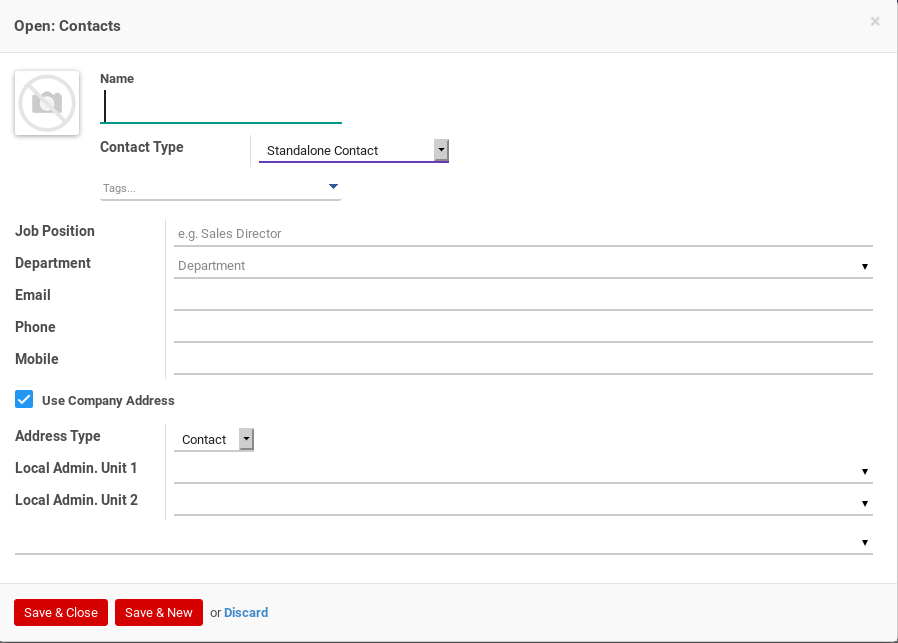
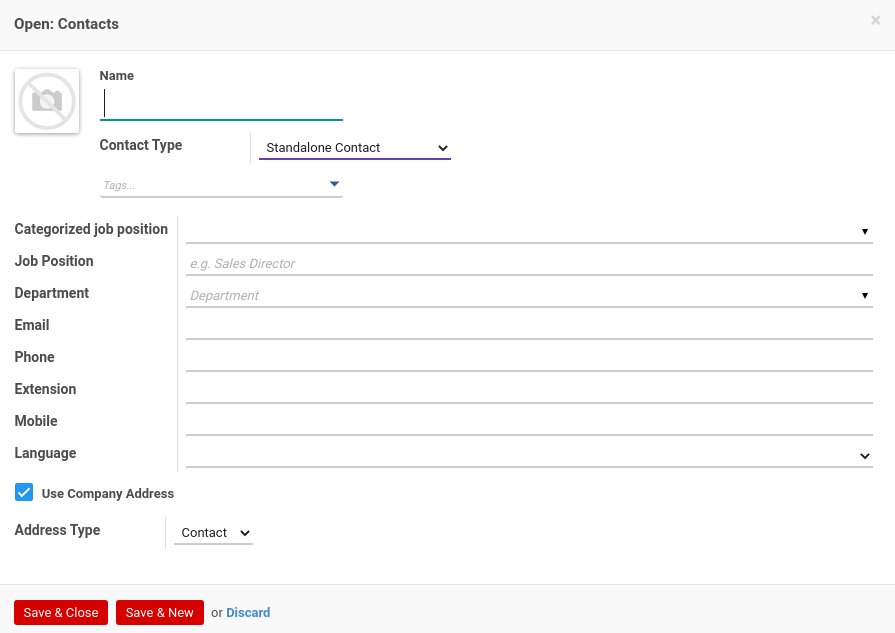
Company Partner Task Menambahkan Contact Task Memodifikasi Contact Task Menghapus Contact Task Menambahkan Afiliasi Task Memodifikasi Afiliasi Task Menghapus Afiliasi

diff --git a/src/company-partner/menambah-affiliates.md b/src/company-partner/menambah-affiliates.md
@@ -1,0 +1,44 @@
+# Menambahkan Afiliasi
+
+*(Instruksi kerja ini merupakan sub instruksi dari (1) [Membuat Company Partner](./membuat.md), atau (2) [Memodifikasi Company Partner](./memodifikasi.md). Instruksi kerja ini tidak bisa berdiri sendiri)*
+
+## A. INPUT
+
+*(Tidak ada instruksi khusus)*
+
+## B. LANGKAH KERJA
+
+1. Klik tombol **Create** pada bagian atas-kiri tab ***Affiliates***
+
+![](../img/company-partner/tombol-create-affiliate.png)
+
+Pop-up ***Affiliates*** akan muncul.
+
+![](../img/company-partner/pop-up-affiliate.png)
+
+2. Isi **[Name](./penjelasan.md#field-affiliates-name)**. Harus diisi.
+3. Pilih **[Company](./penjelasan.md#field-affiliates-company)**. Tidak harus diisi.
+4. Pilih **[Tags](./penjelasan.md#field-affiliates-tags)**. Tidak harus diisi.
+5. Isi **[Address](./penjelasan.md#field-affiliates-address)**. Tidak harus diisi.
+6. Isi **[Website](./penjelasan.md#field-affiliates-website)**. Tidak harus diisi.
+7. Pilih **[Main Sector](./penjelasan.md#field-affiliates-sector)**. Tidak harus diisi.
+8. Isi **[Secondary Sector](./penjelasan.md#field-affiliates-sector2)**. Tidak harus diisi.
+9. Isi **[Phone](./penjelasan.md#field-affiliates-phone)**. Tidak harus diisi.
+10. Isi **[Extension](./penjelasan.md#field-affiliates-ext)**. Tidak harus diisi.
+11. Isi **[Mobile](./penjelasan.md#field-affiliates-mobile)**. Tidak harus diisi.
+12. Isi **[Fax](./penjelasan.md#field-affiliates-fax)**. Tidak harus diisi.
+13. Isi **[Email](./penjelasan.md#field-affiliates-email)**. Tidak harus diisi.
+14. Pilih **[Title](./penjelasan.md#field-affiliates-title)**. Tidak harus diisi.
+15. Pilih **[Ownership Type](./penjelasan.md#field-affiliates-ownership-type)**. Tidak harus diisi.
+16. Klik tombol **Save & Close** pada bagian bawah-kiri pop-up **Affiliates** untuk menyimpan data. Klik tombol **Save & New** pada bagian bawah-kiri pop-up **Affiliates** untuk menyimpan data dan menambahkan data baru.
+
+![](../img/company-partner/tombol-save-close-affiliate.png)
+
+![](../img/company-partner/tombol-save-new-affiliate.png)
+
+17. Ulangi langkah ke-2 jika pada langkah ke-16 tombol **Save & New** yang dipilih.
+18. Lanjutkan [langkah ke-18 instruksi kerja Membuat Company Partner](./membuat.md#l18) atau [langkah ke-19 instruksi kerja Memodifikasi Company Partner](./memodifikasi.md#l19).
+
+## C. OUTPUT
+
+*(Tidak ada instruksi khusus)*

diff --git a/src/company-partner/memodifikasi-affiliates.md b/src/company-partner/memodifikasi-affiliates.md
@@ -1,0 +1,34 @@
+# Memodifikasi Afiliasi
+
+*(Instruksi kerja ini merupakan sub instruksi dari (1) [Membuat Company Partner](./membuat.md), atau (2) [Memodifikasi Company Partner](./memodifikasi.md). Instruksi kerja ini tidak bisa berdiri sendiri)*
+
+## A. INPUT
+
+*(Tidak ada instruksi khusus)*
+
+## B. LANGKAH KERJA
+
+1. Buka data **Affiliates** yang akan dimodifikasi.
+2. Isi dan sesuaikan **[Name](./penjelasan.md#field-affiliates-name)** jika dibutuhkan. Harus diisi.
+3. Pilih dan sesuaikan **[Company](./penjelasan.md#field-affiliates-company)** jika dibutuhkan. Tidak harus diisi.
+4. Pilih dan sesuaikan **[Tags](./penjelasan.md#field-affiliates-tags)** jika dibutuhkan. Tidak harus diisi.
+5. Isi dan sesuaikan **[Address](./penjelasan.md#field-affiliates-address)** jika dibutuhkan. Tidak harus diisi.
+6. Isi dan sesuaikan **[Website](./penjelasan.md#field-affiliates-website)** jika dibutuhkan. Tidak harus diisi.
+7. Pilih dan sesuaikan **[Main Sector](./penjelasan.md#field-affiliates-sector)** jika dibutuhkan. Tidak harus diisi.
+8. Isi dan sesuaikan **[Secondary Sector](./penjelasan.md#field-affiliates-sector2)** jika dibutuhkan. Tidak harus diisi.
+9. Isi dan sesuaikan **[Phone](./penjelasan.md#field-affiliates-phone)** jika dibutuhkan. Tidak harus diisi.
+10. Isi dan sesuaikan **[Extension](./penjelasan.md#field-affiliates-ext)** jika dibutuhkan. Tidak harus diisi.
+11. Isi dan sesuaikan **[Mobile](./penjelasan.md#field-affiliates-mobile)** jika dibutuhkan. Tidak harus diisi.
+12. Isi dan sesuaikan **[Fax](./penjelasan.md#field-affiliates-fax)** jika dibutuhkan. Tidak harus diisi.
+13. Isi dan sesuaikan **[Email](./penjelasan.md#field-affiliates-email)** jika dibutuhkan. Tidak harus diisi.
+14. Pilih dan sesuaikan **[Title](./penjelasan.md#field-affiliates-title)** jika dibutuhkan. Tidak harus diisi.
+15. Pilih dan sesuaikan **[Ownership Type](./penjelasan.md#field-affiliates-ownership-type)** jika dibutuhkan. Tidak harus diisi.
+16. Klik tombol **Save** pada bagian bawah-kiri form.
+
+![](../img/company-partner/tombol-save-modifikasi-affiliate.png)
+
+17. Lanjutkan [langkah ke-18 instruksi kerja Membuat Company Partner](./membuat.md#l18) atau [langkah ke-19 instruksi kerja Memodifikasi Company Partner](./memodifikasi.md#l19).
+
+## C. OUTPUT
+
+*(Tidak ada instruksi khusus)*

diff --git a/src/company-partner/menambah-contact.md b/src/company-partner/menambah-contact.md
@@ -1,0 +1,42 @@
+# Menambahkan Contact
+
+*(Instruksi kerja ini merupakan sub instruksi dari (1) [Membuat Company Partner](./membuat.md), atau (2) [Memodifikasi Company Partner](./memodifikasi.md). Instruksi kerja ini tidak bisa berdiri sendiri)*
+
+## A. INPUT
+
+*(Tidak ada instruksi khusus)*
+
+## B. LANGKAH KERJA
+
+1. Klik tombol **Create** pada bagian atas-kiri tab ***Contacts***
+
+![](../img/company-partner/tombol-create-contact.png)
+
+Pop-up ***Contacts*** akan muncul.
+
+![](../img/company-partner/pop-up-contact.png)
+
+2. Isi **[Name](./penjelasan.md#field-contact-name)**. Harus diisi.
+3. Pilih **[Contact Type](./penjelasan.md#field-contact-type)**. Harus diisi.
+4. Pilih **[Tags](./penjelasan.md#field-contact-tags)**. Tidak harus diisi.
+5. Pilih **[Categorized Job Position](./penjelasan.md#field-contact-job-category)**. Tidak harus diisi.
+6. Isi **[Job Position](./penjelasan.md#field-contact-job-position)**. Tidak harus diisi.
+7. Pilih **[Department](./penjelasan.md#field-contact-job-department)**. Tidak harus diisi.
+8. Isi **[Email](./penjelasan.md#field-contact-job-email)**. Tidak harus diisi.
+9. Isi **[Phone](./penjelasan.md#field-contact-job-phone)**. Tidak harus diisi.
+10. Isi **[Extension](./penjelasan.md#field-contact-job-phone-extension)**. Tidak harus diisi.
+11. Isi **[Mobile](./penjelasan.md#field-contact-job-mobile)**. Tidak harus diisi.
+12. Pilih **[Language](./penjelasan.md#field-contact-job-language)**. Tidak harus diisi.
+13. Pilih **[Address Type](./penjelasan.md#field-contact-job-address-type)**. Tidak harus diisi.
+14. Klik tombol **Save & Close** pada bagian bawah-kiri pop-up **Contacts** untuk menyimpan data. Klik tombol **Save & New** pada bagian bawah-kiri pop-up **Contacts** untuk menyimpan data dan menambahkan data baru.
+
+![](../img/company-partner/tombol-save-close-contact.png)
+
+![](../img/company-partner/tombol-save-new-contact.png)
+
+15. Ulangi langkah ke-2 jika pada langkah ke-14 tombol **Save & New** yang dipilih.
+16. Lanjutkan [langkah ke-17 instruksi kerja Membuat Company Partner](./membuat.md#l17) atau [langkah ke-18 instruksi kerja Memodifikasi Company Partner](./memodifikasi.md#l18).
+
+## C. OUTPUT
+
+*(Tidak ada instruksi khusus)*

diff --git a/src/company-partner/memodifikasi-contact.md b/src/company-partner/memodifikasi-contact.md
@@ -1,0 +1,32 @@
+# Memodifikasi Contact
+
+*(Instruksi kerja ini merupakan sub instruksi dari (1) [Membuat Company Partner](./membuat.md), atau (2) [Memodifikasi Company Partner](./memodifikasi.md). Instruksi kerja ini tidak bisa berdiri sendiri)*
+
+## A. INPUT
+
+*(Tidak ada instruksi khusus)*
+
+## B. LANGKAH KERJA
+
+1. Buka data **Contacts** yang akan dimodifikasi.
+2. Isi dan sesuaikan **[Name](./penjelasan.md#field-contact-name)** jika dibutuhkan. Harus diisi.
+3. Pilih dan sesuaikan **[Contact Type](./penjelasan.md#field-contact-type)** jika dibutuhkan. Harus diisi.
+4. Pilih dan sesuaikan **[Tags](./penjelasan.md#field-contact-tags)** jika dibutuhkan. Tidak harus diisi.
+5. Pilih dan sesuaikan **[Categorized Job Position](./penjelasan.md#field-contact-job-category)** jika dibutuhkan. Tidak harus diisi.
+6. Isi dan sesuaikan **[Job Position](./penjelasan.md#field-contact-job-position)** jika dibutuhkan. Tidak harus diisi.
+7. Pilih dan sesuaikan **[Department](./penjelasan.md#field-contact-job-department)** jika dibutuhkan. Tidak harus diisi.
+8. Isi dan sesuaikan **[Email](./penjelasan.md#field-contact-job-email)** jika dibutuhkan. Tidak harus diisi.
+9. Isi dan sesuaikan **[Phone](./penjelasan.md#field-contact-job-phone)** jika dibutuhkan. Tidak harus diisi.
+10. Isi dan sesuaikan **[Extension](./penjelasan.md#field-contact-job-phone-extension)** jika dibutuhkan. Tidak harus diisi.
+11. Isi dan sesuaikan **[Mobile](./penjelasan.md#field-contact-job-mobile)** jika dibutuhkan. Tidak harus diisi.
+12. Pilih dan sesuaikan **[Language](./penjelasan.md#field-contact-job-language)** jika dibutuhkan. Tidak harus diisi.
+13. Pilih dan sesuaikan **[Address Type](./penjelasan.md#field-contact-job-address-type)** jika dibutuhkan. Tidak harus diisi.
+14. Klik tombol **Save** pada bagian bawah-kiri form.
+
+![](../img/company-partner/tombol-save-modifikasi-contact.png)
+
+15. Lanjutkan [langkah ke-17 instruksi kerja Membuat Company Partner](./membuat.md#l17) atau [langkah ke-18 instruksi kerja Memodifikasi Company Partner](./memodifikasi.md#l18).
+
+## C. OUTPUT
+
+*(Tidak ada instruksi khusus)*

diff --git a/src/SUMMARY.md b/src/SUMMARY.md
@@ -7,6 +7,12 @@
     - [Membuat Company Partner](./company-partner/membuat.md)
     - [Memodifikasi Company Partner](./company-partner/memodifikasi.md)
     - [Menghapus Company Partner](./company-partner/menghapus.md)
+    - [Menambahkan Contact](./company-partner/menambah-contact.md)
+    - [Memodifikasi Contact](./company-partner/memodifikasi-contact.md)
+    - [Menghapus Contact](./company-partner/menghapus-contact.md)
+    - [Menambahkan Afiliasi](./company-partner/menambah-affiliates.md)
+    - [Memodifikasi Afiliasi](./company-partner/memodifikasi-affiliates.md)
+    - [Menghapus Afiliasi](./company-partner/menghapus-affiliates.md)
     - [Menonaktifkan Company Partner](./company-partner/menonaktifkan.md)
     - [Menandai Sebagai Konsumen](./company-partner/mark-as-customer.md)
     - [Menandai Sebagai Supplier](./company-partner/mark-as-supplier.md)

diff --git a/src/company-partner/menghapus-affiliates.md b/src/company-partner/menghapus-affiliates.md
@@ -1,0 +1,20 @@
+# Menghapus Afiliasi
+
+*(Instruksi kerja ini merupakan sub instruksi dari (1) [Membuat Company Partner](./membuat.md), atau (2) [Memodifikasi Company Partner](./memodifikasi.md). Instruksi kerja ini tidak bisa berdiri sendiri)*
+
+## A. INPUT
+
+*(Tidak ada instruksi khusus)*
+
+## B. INSTRUKSI KERJA
+
+1. Klik icon x pada bagian pojok atas-kanan kotak yang berisi nama *Affiliates*
+
+![](../img/company-partner/hapus-affiliate.png)
+
+2. Ulangi langkah ke-1 untuk setiap *Affiliate* yang akan dihapus.
+3. Lanjutkan [langkah ke-18 instruksi kerja Membuat Company Partner](./membuat.md#l18) atau [langkah ke-19 instruksi kerja Memodifikasi Company Partner](./memodifikasi.md#l19).
+
+## C. OUTPUT
+
+*(Tidak ada instruksi khusus)*

diff --git a/src/company-partner/menghapus-contact.md b/src/company-partner/menghapus-contact.md
@@ -1,0 +1,20 @@
+# Menghapus Contact
+
+*(Instruksi kerja ini merupakan sub instruksi dari (1) [Membuat Company Partner](./membuat.md), atau (2) [Memodifikasi Company Partner](./memodifikasi.md). Instruksi kerja ini tidak bisa berdiri sendiri)*
+
+## A. INPUT
+
+*(Tidak ada instruksi khusus)*
+
+## B. INSTRUKSI KERJA
+
+1. Klik icon x pada bagian pojok atas-kanan kotak yang berisi nama *Contact*
+
+![](../img/company-partner/hapus-contact.png)
+
+2. Ulangi langkah ke-1 untuk setiap *Contact* yang akan dihapus.
+3. Lanjutkan [langkah ke-17 instruksi kerja Membuat Company Partner](./membuat.md#l17) atau [langkah ke-18 instruksi kerja Memodifikasi Company Partner](./memodifikasi.md#l18).
+
+## C. OUTPUT
+
+*(Tidak ada instruksi khusus)*

diff --git a/src/company-partner/penjelasan.md b/src/company-partner/penjelasan.md
@@ -141,6 +141,10 @@ Nomor telepon extension kontak
 
 Nomor handphone/mobile kontak
 
+#### <a name="field-contact-job-language">Language</a>
+
+Bahasa yang digunakan
+
 #### <a name="field-contact-company-address">Use Company Address</a>
 
 Jika dipilih, maka alamat kontak akan menggunakan alamat perusahaan.
@@ -168,6 +172,10 @@ Foto/gambar untuk logo perusahaan afiliasi
 #### <a name="field-affiliates-name">Name</a>
 
 Nama perusahaan afiliasi
+
+#### <a name="field-affiliates-company">Company</a>
+
+Nama perusahaan
 
 #### <a name="field-affiliates-tags">Tags</a>
 
